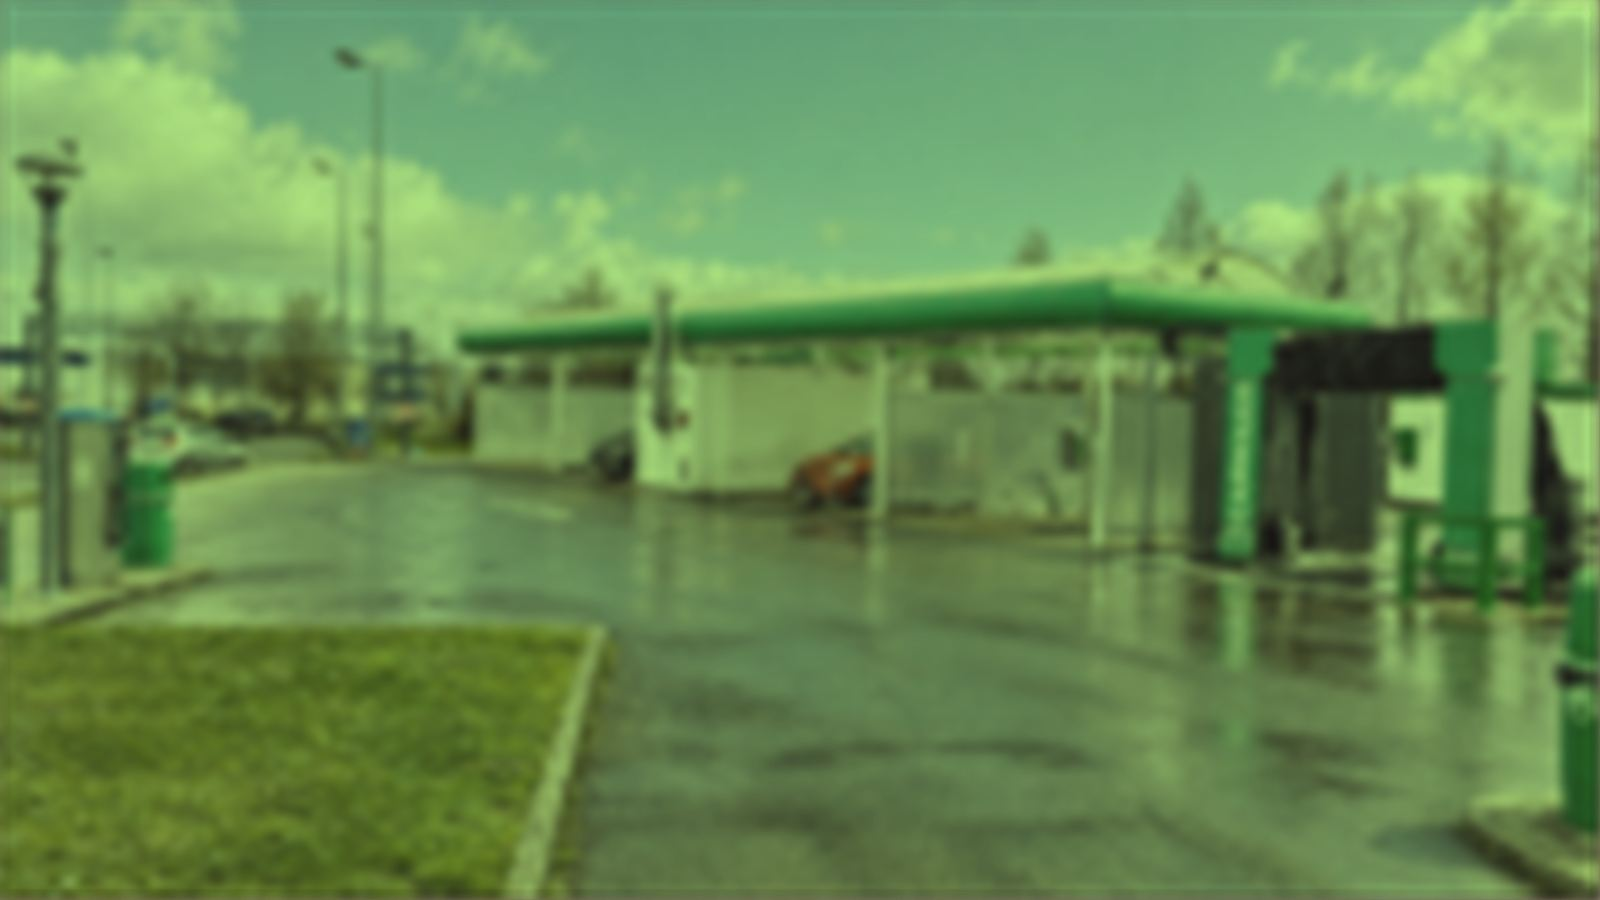
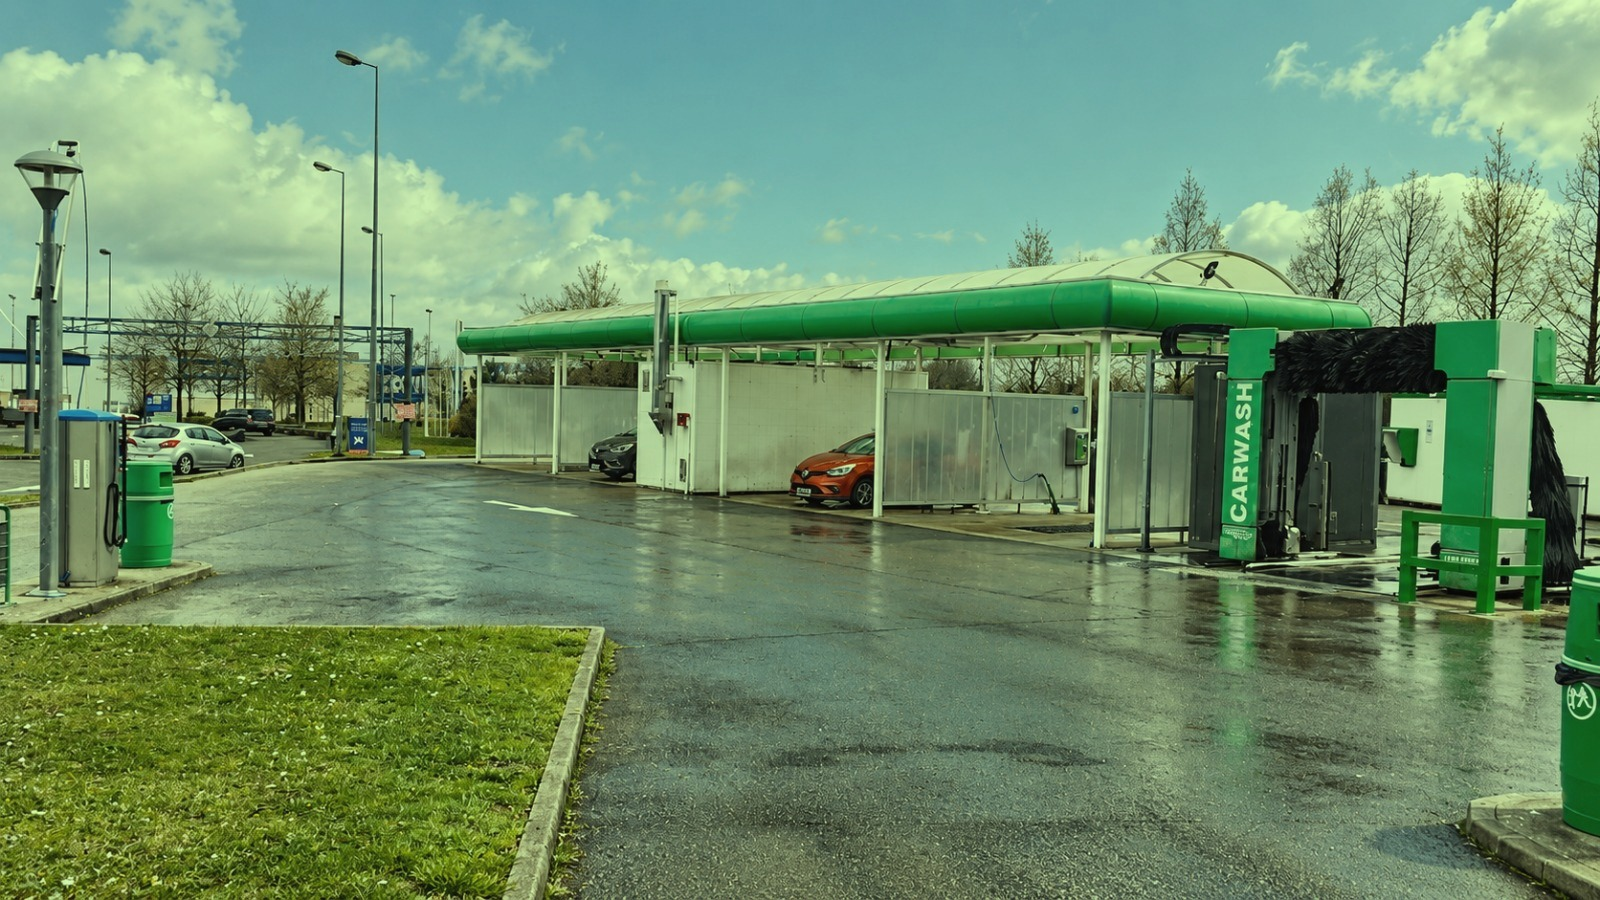
Corrige plusieurs bugs visuels et condense le contenu
- Carte Google Maps intégrée directement (plus de bandeau de consentement
  ni de faux plan schématique) ; mise à jour de /cookies en conséquence
- Corrige le débordement du gros 24H/24 sur grand écran (texte coupé)
- Corrige le texte blanc invisible sur fond clair dans la transition
  "Eau · Mousse..." (mix-blend-mode difference, contraste garanti)
- Photos : ré-encodées en meilleure qualité, version 'vitre sale' du Hero
  ternie sans flou (l'ancienne version était floue)
- Footer : pied de page et filigrane recentrés sur grand écran
- Condense l'accueil : suppression des sections PricesXXL et HowItWorks
  (redondantes avec Intro/Programs et WashSequence), CTA déplacée

diff --git a/components/sections/StationMap.tsx b/components/sections/StationMap.tsx
@@ -1,86 +1,18 @@
-"use client";
-
-import { useEffect, useState } from "react";
-import { Icon } from "@/components/ui/Icon";
 import { fullAddress, links, station } from "@/data/station";
 import { cn } from "@/lib/utils";
 
-export const MAP_CONSENT_KEY = "h2au-consent-maps";
-
-/**
- * Carte Google Maps chargée uniquement à la demande (Google dépose des cookies).
- * Le choix est mémorisé dans le navigateur ; il se réinitialise sur /cookies.
- */
+/** Carte Google Maps, intégrée directement. */
 export function StationMap({ className, wide = false }: { className?: string; wide?: boolean }) {
-  const [load, setLoad] = useState(false);
-
-  useEffect(() => {
-    try {
-      if (localStorage.getItem(MAP_CONSENT_KEY) === "1") setLoad(true);
-    } catch {}
-  }, []);
-
-  const accept = () => {
-    try {
-      localStorage.setItem(MAP_CONSENT_KEY, "1");
-    } catch {}
-    setLoad(true);
-  };
-
   return (
     <div className={cn("relative aspect-[4/5] overflow-hidden rounded-[var(--radius-medium)] border border-white/10 bg-ink", wide ? "sm:aspect-[21/9]" : "sm:aspect-[4/3]", className)}>
-      {load ? (
-        <iframe
-          title={`Carte : ${station.name}, ${fullAddress}`}
-          src={links.mapEmbed}
-          className="absolute inset-0 h-full w-full border-0 [filter:grayscale(.3)_contrast(1.05)]"
-          loading="lazy"
-          referrerPolicy="no-referrer-when-downgrade"
-          allowFullScreen
-        />
-      ) : (
-        <>
-          {/* plan stylisé (aucune donnée tierce chargée) */}
-          <svg aria-hidden="true" viewBox="0 0 400 300" preserveAspectRatio="xMidYMid slice" className="absolute inset-0 h-full w-full">
-            <defs>
-              <pattern id="blocks" width="40" height="40" patternUnits="userSpaceOnUse" patternTransform="rotate(-14)">
-                <rect width="40" height="40" fill="#101414" />
-                <rect x="3" y="3" width="34" height="34" rx="2" fill="#141a1a" />
-              </pattern>
-            </defs>
-            <rect width="400" height="300" fill="url(#blocks)" />
-            <path d="M-20 210C80 190 160 200 240 150S360 60 430 40" stroke="#253030" strokeWidth="14" fill="none" />
-            <path d="M-20 210C80 190 160 200 240 150S360 60 430 40" stroke="#2f3b3b" strokeWidth="1" strokeDasharray="6 8" fill="none" />
-            <path d="M120 -20C140 80 150 200 130 320" stroke="#1e2727" strokeWidth="9" fill="none" />
-            <path d="M-20 90C100 110 260 100 420 130" stroke="#1e2727" strokeWidth="6" fill="none" />
-            <circle cx="236" cy="152" r="60" fill="url(#g)" />
-            <radialGradient id="g">
-              <stop offset="0" stopColor="#2be38c" stopOpacity=".25" />
-              <stop offset="1" stopColor="#2be38c" stopOpacity="0" />
-            </radialGradient>
-          </svg>
-          <div className="absolute left-[59%] top-[50.5%] -translate-x-1/2 -translate-y-1/2">
-            <span className="gps scale-150" aria-hidden="true">
-              <i />
-            </span>
-          </div>
-          <div className="absolute left-[59%] top-[50.5%] ml-5 -translate-y-1/2 rounded-[var(--radius-small)] bg-carbon/85 px-3 py-2 text-xs font-bold uppercase tracking-[.12em] backdrop-blur">
-            {station.name}
-          </div>
-          <div className="absolute inset-x-0 bottom-0 flex flex-col gap-3 bg-gradient-to-t from-carbon via-carbon/90 to-transparent p-5 pt-16 md:p-7 md:pt-20">
-            <button type="button" onClick={accept} className="btn btn-secondary btn-sm w-fit">
-              <Icon name="grid" className="size-4" /> Afficher la carte interactive
-            </button>
-            <p className="text-xs text-metal">
-              La carte est fournie par Google Maps, qui peut déposer des cookies.{" "}
-              <a href={links.maps} target="_blank" rel="noopener noreferrer" className="underline underline-offset-2 hover:text-white">
-                Ouvrir dans Google Maps
-                <span className="sr-only"> (nouvel onglet)</span>
-              </a>
-            </p>
-          </div>
-        </>
-      )}
+      <iframe
+        title={`Carte : ${station.name}, ${fullAddress}`}
+        src={links.mapEmbed}
+        className="absolute inset-0 h-full w-full border-0"
+        loading="lazy"
+        referrerPolicy="no-referrer-when-downgrade"
+        allowFullScreen
+      />
     </div>
   );
 }

diff --git a/app/cookies/page.tsx b/app/cookies/page.tsx
@@ -1,6 +1,5 @@
 import type { Metadata } from "next";
 import { LegalPage, LegalSection } from "@/components/sections/LegalPage";
-import { CookieControls } from "@/components/sections/CookieControls";
 import { pageMetadata } from "@/lib/seo";
 
 export const metadata: Metadata = {
@@ -13,8 +12,8 @@ export default function CookiesPage() {
     <LegalPage title="Gestion des cookies">
       <LegalSection title="En bref">
         <p>
-          Ce site ne dépose aucun cookie publicitaire ni de mesure d&apos;audience. C&apos;est pourquoi aucun bandeau ne vous est
-          imposé à l&apos;arrivée.
+          Ce site ne dépose lui-même aucun cookie publicitaire ni de mesure d&apos;audience. C&apos;est pourquoi aucun bandeau ne
+          vous est imposé à l&apos;arrivée.
         </p>
       </LegalSection>
       <LegalSection title="Ce que le site enregistre dans votre navigateur">
@@ -23,20 +22,14 @@ export default function CookiesPage() {
             <strong>Animation d&apos;accueil</strong> (stockage de session) : retient que l&apos;animation d&apos;ouverture a déjà été
             jouée. Effacé à la fermeture de l&apos;onglet.
           </li>
-          <li>
-            <strong>Carte Google Maps</strong> (stockage local) : retient votre accord si vous avez choisi d&apos;afficher la carte.
-          </li>
         </ul>
       </LegalSection>
       <LegalSection title="Services tiers">
         <p>
-          La carte interactive est fournie par Google Maps. Elle n&apos;est chargée qu&apos;après votre clic ; Google peut alors déposer
-          ses propres cookies, régis par sa politique de confidentialité. Les liens « Itinéraire » ouvrent Google Maps dans un
-          nouvel onglet.
+          La carte affichée sur le site (page « La station ») est directement fournie par Google Maps : elle se charge dès
+          l&apos;affichage de la page, et Google peut y déposer ses propres cookies, régis par sa politique de confidentialité.
+          Les liens « Itinéraire » ouvrent Google Maps dans un nouvel onglet.
         </p>
-      </LegalSection>
-      <LegalSection title="Votre choix">
-        <CookieControls />
       </LegalSection>
     </LegalPage>
   );

diff --git a/components/home/WaterTransition.tsx b/components/home/WaterTransition.tsx
@@ -25,11 +25,13 @@ export function WaterTransition() {
           "linear-gradient(180deg, var(--color-offwhite) 0%, #d9dedd 14%, #6f7777 34%, var(--color-anthracite) 56%, var(--color-carbon) 82%)",
       }}
     >
-      <div className="absolute inset-x-0 top-[26%] select-none whitespace-nowrap">
-        <m.p style={{ x: x1 }} className="t-mega text-outline !text-[clamp(4rem,15vw,15rem)] !leading-[.9] [-webkit-text-stroke-color:rgb(7_9_9/.14)]">
+      {/* mix-blend-mode: difference garantit un contraste visible quel que soit
+          l'endroit du dégradé (clair en haut, sombre en bas) où le texte tombe. */}
+      <div className="absolute inset-x-0 top-[26%] select-none whitespace-nowrap mix-blend-difference">
+        <m.p style={{ x: x1 }} className="t-mega text-outline !text-[clamp(4rem,15vw,15rem)] !leading-[.9] [-webkit-text-stroke-color:rgb(255_255_255/.5)]">
           Eau · Mousse · Pression · Brillance · Eau · Mousse
         </m.p>
-        <m.p style={{ x: x2 }} className="t-mega text-outline mt-2 !text-[clamp(4rem,15vw,15rem)] !leading-[.9] [-webkit-text-stroke-color:rgb(255_255_255/.14)]">
+        <m.p style={{ x: x2 }} className="t-mega text-outline mt-2 !text-[clamp(4rem,15vw,15rem)] !leading-[.9] [-webkit-text-stroke-color:rgb(255_255_255/.5)]">
           H2AU · Saint-Maximin · 24h/24 · H2AU · Saint-Maximin
         </m.p>
       </div>

diff --git a/components/layout/Footer.tsx b/components/layout/Footer.tsx
@@ -83,13 +83,13 @@ export function Footer() {
           </div>
         </div>
 
-        <div aria-hidden="true" className="pointer-events-none mt-16 select-none leading-none text-white/[.06]">
+        <div aria-hidden="true" className="pointer-events-none mt-16 select-none text-center leading-none text-white/[.06]">
           <Wordmark className="block text-[29vw] lg:text-[23vw] [&_.wordmark-2]:text-h2au/25" />
         </div>
 
-        <div className="mt-6 flex flex-col gap-4 border-t border-white/10 pt-6 text-sm text-metal md:flex-row md:items-center md:justify-between">
+        <div className="mt-6 flex flex-col items-center gap-4 border-t border-white/10 pt-6 text-center text-sm text-metal md:flex-row md:justify-center md:gap-8">
           <p>© {new Date().getFullYear()} {station.name} — {station.subtitle}</p>
-          <ul className="flex flex-wrap gap-x-6 gap-y-2">
+          <ul className="flex flex-wrap justify-center gap-x-6 gap-y-2">
             {legalNav.map((l) => (
               <li key={l.href}>
                 <Link href={l.href} className="nav-link hover:text-white">

diff --git a/app/page.tsx b/app/page.tsx
@@ -6,8 +6,6 @@ import { WaterTransition } from "@/components/home/WaterTransition";
 import { Equipment } from "@/components/home/Equipment";
 import { WashSequence } from "@/components/home/WashSequence";
 import { BeforeAfter } from "@/components/home/BeforeAfter";
-import { HowItWorks } from "@/components/home/HowItWorks";
-import { PricesXXL } from "@/components/home/PricesXXL";
 import { StationBlock } from "@/components/home/StationBlock";
 import { GallerySection } from "@/components/home/GallerySection";
 import { Open24 } from "@/components/home/Open24";
@@ -44,8 +42,6 @@ export default function HomePage() {
       <Equipment />
       <WashSequence />
       <BeforeAfter />
-      <HowItWorks />
-      <PricesXXL />
       <StationBlock />
       <GallerySection />
       <Open24 />

diff --git a/components/home/WashSequence.tsx b/components/home/WashSequence.tsx
@@ -2,6 +2,7 @@
 
 import { useRef, useState, type CSSProperties } from "react";
 import { m, useMotionValueEvent, useScroll, useTransform, useReducedMotion } from "framer-motion";
+import { ButtonLink } from "@/components/ui/Button";
 import { CarSilhouette } from "@/components/visuals/CarSilhouette";
 import { programs } from "@/data/programs";
 import { cn } from "@/lib/utils";
@@ -69,6 +70,9 @@ export function WashSequence() {
               </li>
             ))}
           </ol>
+          <ButtonLink href="/comment-ca-marche" variant="secondary" className="mt-12">
+            Le fonctionnement en détail
+          </ButtonLink>
         </div>
       </section>
     );

diff --git a/components/home/Open24.tsx b/components/home/Open24.tsx
@@ -21,7 +21,7 @@ export function Open24() {
         <p
           data-reveal="clip"
           aria-hidden="true"
-          className="mt-14 whitespace-nowrap text-[clamp(5rem,23vw,24rem)] font-[860] uppercase leading-[.78] tracking-[-0.05em] md:mt-20 md:text-[clamp(5rem,20.5vw,24rem)] md:[font-stretch:122%]"
+          className="mt-14 w-full overflow-hidden whitespace-nowrap text-[clamp(4.5rem,17vw,17rem)] font-[860] uppercase leading-[.78] tracking-[-0.05em] md:mt-20 md:text-[clamp(4.5rem,15vw,17rem)] md:[font-stretch:122%]"
         >
           24<span className="text-h2au-deep">H</span>/24
         </p>

diff --git a/README.md b/README.md
@@ -82,5 +82,5 @@ public/textures/     textures générées (mousse, salissures, grain)
 - `prefers-reduced-motion` respecté : animations et effets désactivés, contenu intact.
 - Sans JavaScript, tout le contenu reste visible.
 - Images optimisées (AVIF/WebP), police locale, pages statiques.
-- Aucun traceur ni cookie publicitaire : pas de bandeau imposé. La carte Google Maps ne se charge qu'après un clic (choix réversible sur `/cookies`).
+- Aucun traceur ni cookie publicitaire propre au site : pas de bandeau imposé. La carte Google Maps (page « La station ») est intégrée directement ; voir `/cookies` pour le détail des services tiers.
 - Les illustrations de voiture sont signalées comme « démonstration visuelle ».
